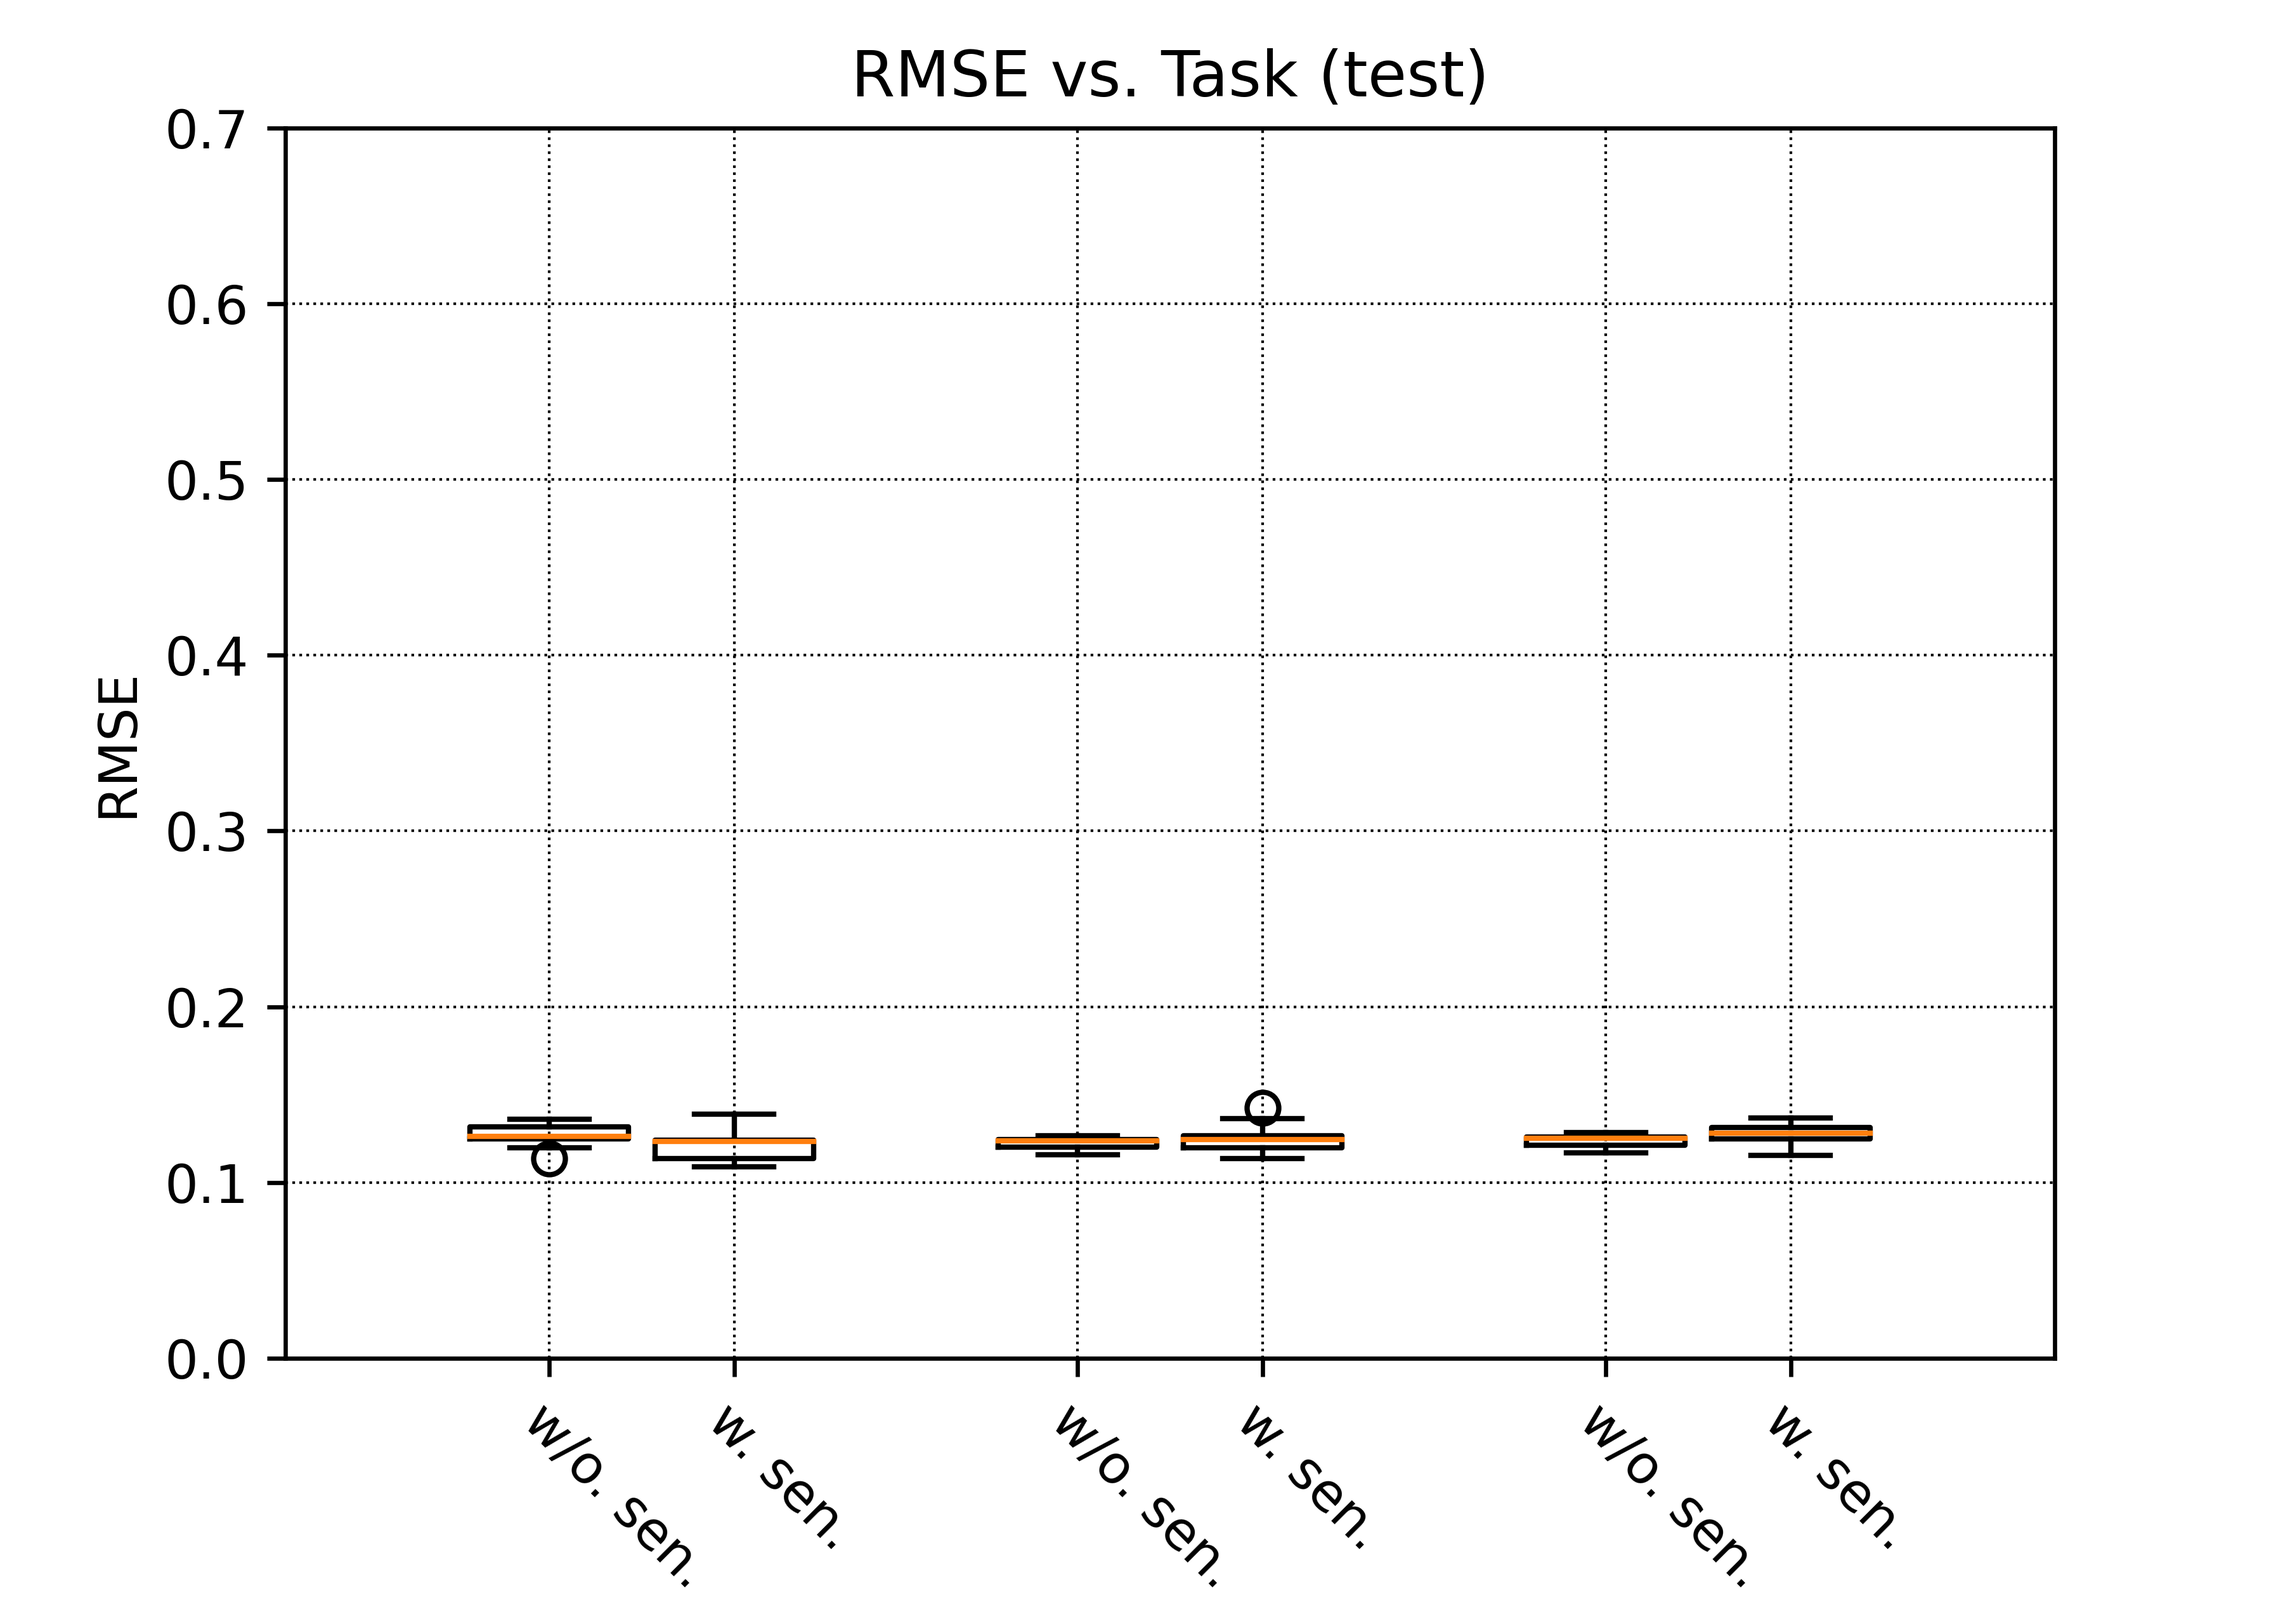
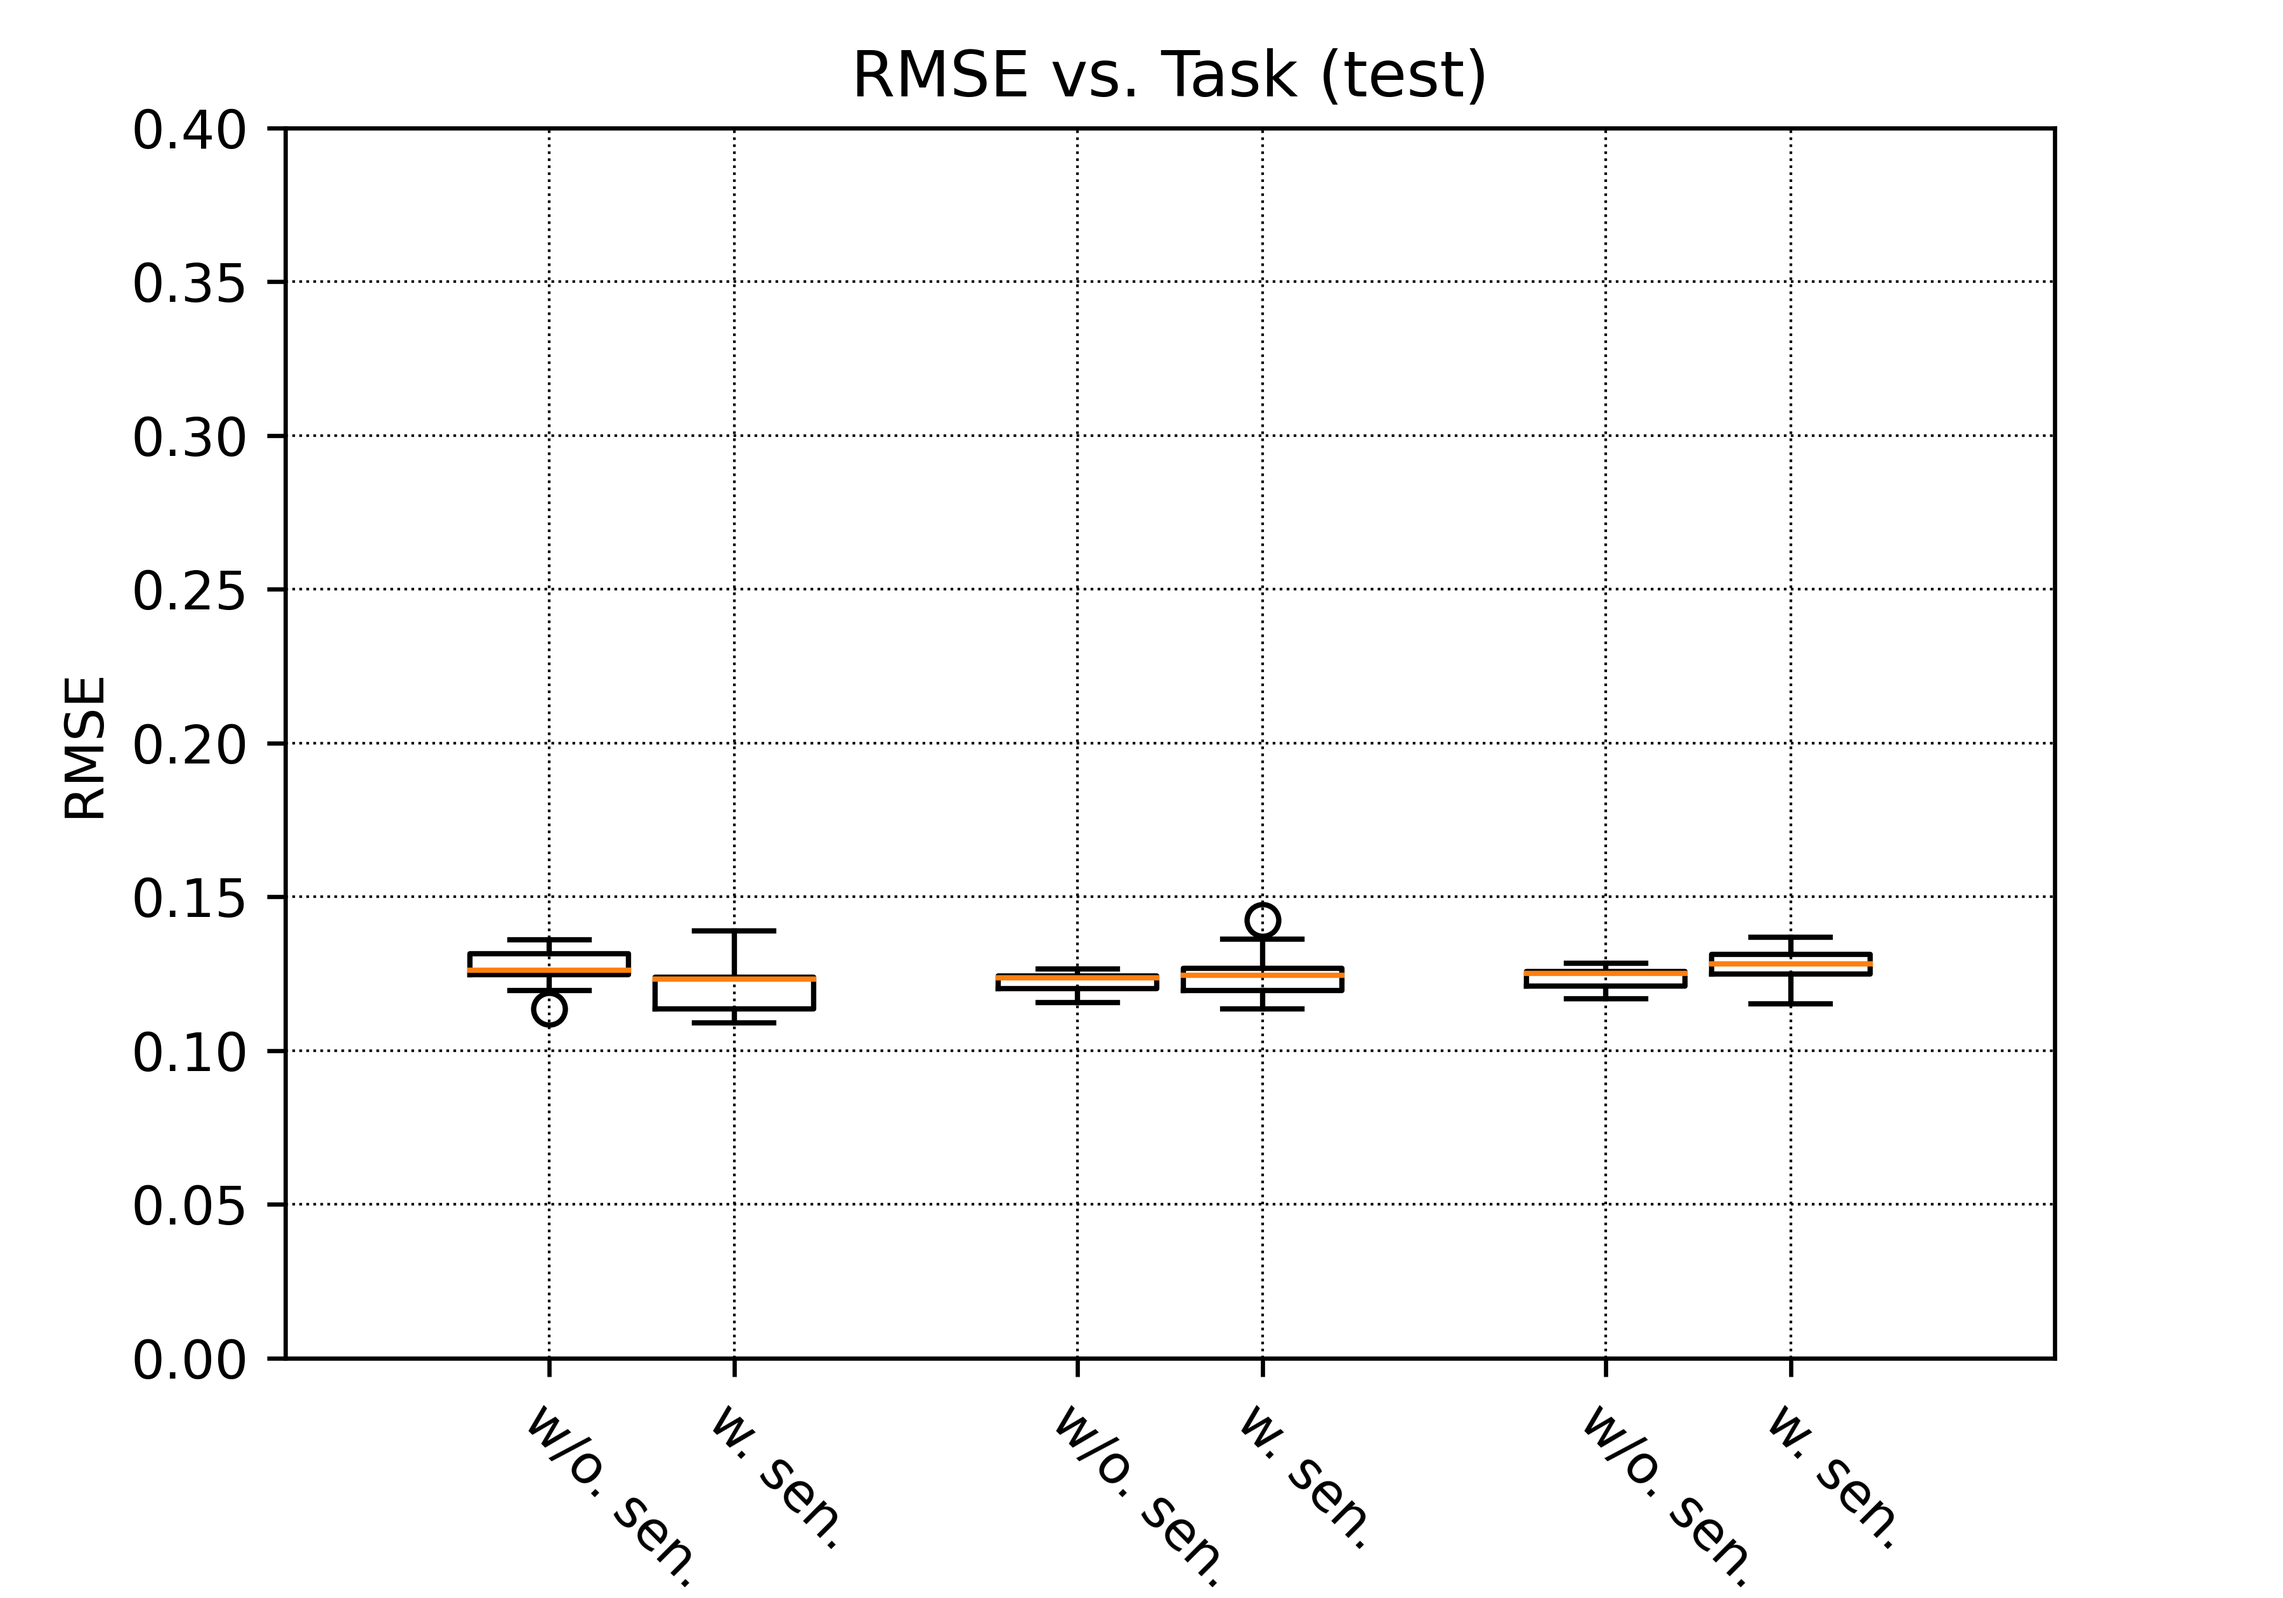
printed some figures from adding acc tests

diff --git a/show_results_3phases_2tasks_cur_multiANN_par_3casses.py b/show_results_3phases_2tasks_cur_multiANN_par_3casses.py
@@ -2,8 +2,7 @@ import numpy as np
 from matplotlib import pyplot as plt
 from all_functions import *
 
-experiment_ID_base = 'cur3_V5_TD_full_test_nonstiff_modifiedRoM_useACCtest_1'
-
+experiment_ID_base = 'cur3_V5_TD_full_test_nonstiff_modifiedRoM_useACCtest_4'
 
 curriculums = ["_E2H", "_H2E"]
 ANN_structures = ["S","M"]
@@ -11,8 +10,8 @@ task_types = ["cyclical", "p2p"]
 
 all_sensory_cases = [True, False]
 use_feedback = False
-use_acc = True
-normalize = False
+use_acc = False
+normalize = True
 
 
 show_video = True
@@ -20,11 +19,11 @@ random_seed = 0
 
 task_type = task_types[0]
 curriculum = curriculums[0]
-ANN_structure = ANN_structures[1]
+ANN_structure = ANN_structures[0]
 number_of_refinements = 8+1
 number_of_all_runs = 14
 
-fig1, axes1 = plt.subplots(nrows=1, ncols=4, figsize=(12, 4))
+fig1, axes1 = plt.subplots(nrows=1, ncols=3, figsize=(12, 4))
 fig2, axes2 = plt.subplots(nrows=1, ncols=1, figsize=(6, 4.2))
 
 color = "C0"
@@ -46,8 +45,8 @@ for use_sensory in all_sensory_cases:
 		color= "C1"
 
 	if curriculum == "_E2H":
-		MuJoCo_model_names = ["tendon_quadruped_ws_inair.xml", "tendon_quadruped_ws_onfloor.xml", "tendon_quadruped_ws_onfloorloaded.xml","tendon_quadruped_ws_onfloorloadedheavy.xml"]
-		MuJoCo_model_names_short = ["In Air", "On Floor", "On Floor With Load",  "On Floor With Heavy Load"]
+		MuJoCo_model_names = ["tendon_quadruped_ws_inair.xml", "tendon_quadruped_ws_onfloor.xml", "tendon_quadruped_ws_onfloorloaded.xml"]
+		MuJoCo_model_names_short = ["In Air", "On Floor", "On Floor With Load"]
 	elif curriculum == "_H2E":
 		MuJoCo_model_names = ["tendon_quadruped_ws_onfloorloaded.xml", "tendon_quadruped_ws_onfloor.xml", "tendon_quadruped_ws_inair.xml"]
 		MuJoCo_model_names_short = ["On Floor with Load", "On Floor", "In Air"]
@@ -70,7 +69,7 @@ for use_sensory in all_sensory_cases:
 	task_errors_all_mean = np.mean(task_errors_all, axis=0)
 	task_errors_all_std = np.std(task_errors_all, axis=0)
 
-	for ii in range(4):
+	for ii in range(3):
 		if ii == 0:
 			#import pdb; pdb.set_trace()
 			axes1[ii].errorbar(x=np.arange(1,number_of_refinements+1), y=learning_errors_all_mean[ii,1:], yerr=learning_errors_all_std[ii,1:], capsize=2, animated=True, alpha=.4, color=color)
@@ -86,7 +85,7 @@ for use_sensory in all_sensory_cases:
 		axes1[ii].set_title(MuJoCo_model_names_short[ii])
 		axes1[ii].set_xlabel('Refinement #')
 		axes1[ii].set_ylabel('RMSE')
-		axes1[ii].set_ylim(0, 0.4)
+		axes1[ii].set_ylim(0, 0.6)
 		axes1[ii].set_xlim(-0.50, 9.5)
 		axes1[ii].grid(color='k', linestyle=':', linewidth=.5)
 
@@ -104,17 +103,17 @@ for use_sensory in all_sensory_cases:
 	# 	axes2.set_ylabel('RMSE')
 	# 	axes2.grid(color='k', linestyle=':', linewidth=.5)
 	# fig2.subplots_adjust(bottom=0.12, top=.92)
-	positions=np.arange(4)+x_shift
+	positions=np.arange(3)+x_shift
 	axes2.boxplot(task_errors_all, positions=positions)
 axes2.set_title('RMSE vs. Task (test)')
 axes2.set_xlabel('Task')
-axes2.set_xticklabels(["w. sen.","w. sen.","w. sen.","w. sen.","w/o. sen.","w/o. sen.","w/o. sen.","w/o. sen."])
+axes2.set_xticklabels(["w. sen.","w. sen.","w. sen.","w/o. sen.","w/o. sen.","w/o. sen."])
 # Rotate the tick labels and set their alignment.
 plt.setp(axes2.get_xticklabels(), rotation=-45, ha="left",
          rotation_mode="anchor")
 axes2.set_ylabel('RMSE')
 axes2.grid(color='k', linestyle=':', linewidth=.5)
-axes2.set_ylim(0, 0.4)
+axes2.set_ylim(0, 0.6)
 fig2.subplots_adjust(bottom=0.15, top=.92)
 axes1[2].legend((line1,line2),('with sensory','without sensory'))
 
@@ -145,7 +144,7 @@ else:
 		experiment_ID = "wo_sensory_"+"wo_feedback_"+ANN_structure+"_ANN_"+task_type+curriculum
 save_log_path = experiment_ID_base+"/"+experiment_ID
 run_no = 0
-MuJoCo_model_names = ["tendon_quadruped_ws_inair.xml", "tendon_quadruped_ws_onfloor.xml", "tendon_quadruped_ws_onfloorloaded.xml","tendon_quadruped_ws_onfloorloadedheavy.xml"]
+MuJoCo_model_names = ["tendon_quadruped_ws_inair.xml", "tendon_quadruped_ws_onfloor.xml", "tendon_quadruped_ws_onfloorloaded.xml"]
 if show_video:
 	for MuJoCo_model_name , ii in zip(MuJoCo_model_names, range(len(MuJoCo_model_names))):
 		test_run_RMSE = test_a_task(MuJoCo_model_name, save_log_path, run_no, Mj_render=False, random_seed=random_seed, use_sensory=use_sensory, use_feedback=use_feedback, normalize=normalize, plot_position_curves=True, task_type=task_type, ANN_structure=ANN_structure, dt=dt, actuation_type=actuation_type, use_acc=use_acc)

diff --git a/all_functions.py b/all_functions.py
@@ -113,9 +113,9 @@ def test_a_task(MuJoCo_model_name, experiment_ID, run_no, random_seed, use_senso
 	if plot_position_curves:
 		# import pdb; pdb.set_trace()
 		fig, axes = plt.subplots(nrows=2, ncols=1, figsize=(6, 4.2))
-		axes[0].plot(np.arange(1000),returned_kinematics[int(returned_kinematics.shape[0]/2):,0], np.arange(1000), attempt_kinematics[int(attempt_kinematics.shape[0]/2):,0])
+		axes[0].plot(np.arange(1000),returned_kinematics[int(returned_kinematics.shape[0]/2):,6], np.arange(1000), attempt_kinematics[int(attempt_kinematics.shape[0]/2):,6])
 		axes[0].set_title('proximal')
-		axes[1].plot(np.arange(1000), returned_kinematics[int(returned_kinematics.shape[0]/2):,1], np.arange(1000), attempt_kinematics[int(attempt_kinematics.shape[0]/2):,1])
+		axes[1].plot(np.arange(1000), returned_kinematics[int(returned_kinematics.shape[0]/2):,7], np.arange(1000), attempt_kinematics[int(attempt_kinematics.shape[0]/2):,7])
 		axes[1].set_title('distal')
 		plt.show(block=True)
 
@@ -533,7 +533,7 @@ def create_cyclical_movements_fcn(omega=1.5, attempt_length=10, dt=0.01):
 	attempt_kinematics_LF = positions_to_kinematics_fcn(q0a, q1a, dt)
 	attempt_kinematics = combine_4leg_kinematics(attempt_kinematics_RB, attempt_kinematics_RF, attempt_kinematics_LB, attempt_kinematics_LF)
 	return attempt_kinematics
-	
+
 def create_p2p_movements_fcn(random_seed, number_of_steps = 10, attempt_length = 10, dt=0.01, filtfilt_N=1):
 	step_duration = attempt_length/number_of_steps
 	q0a = p2p_positions_gen_fcn(lower_band = -.96, upper_band = -.2, number_of_positions = number_of_steps, duration_of_each_position = step_duration, random_seed=random_seed, dt=dt)
